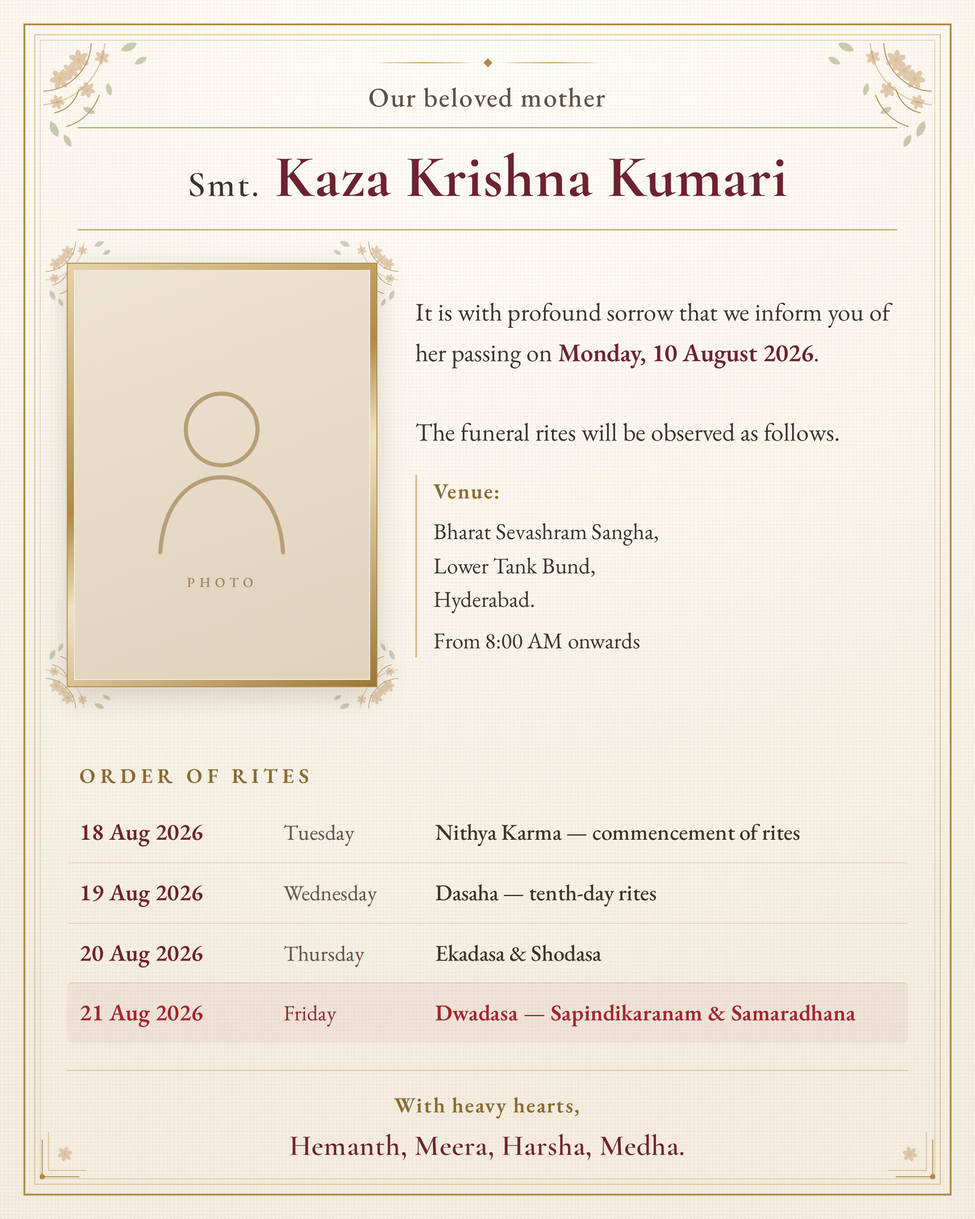
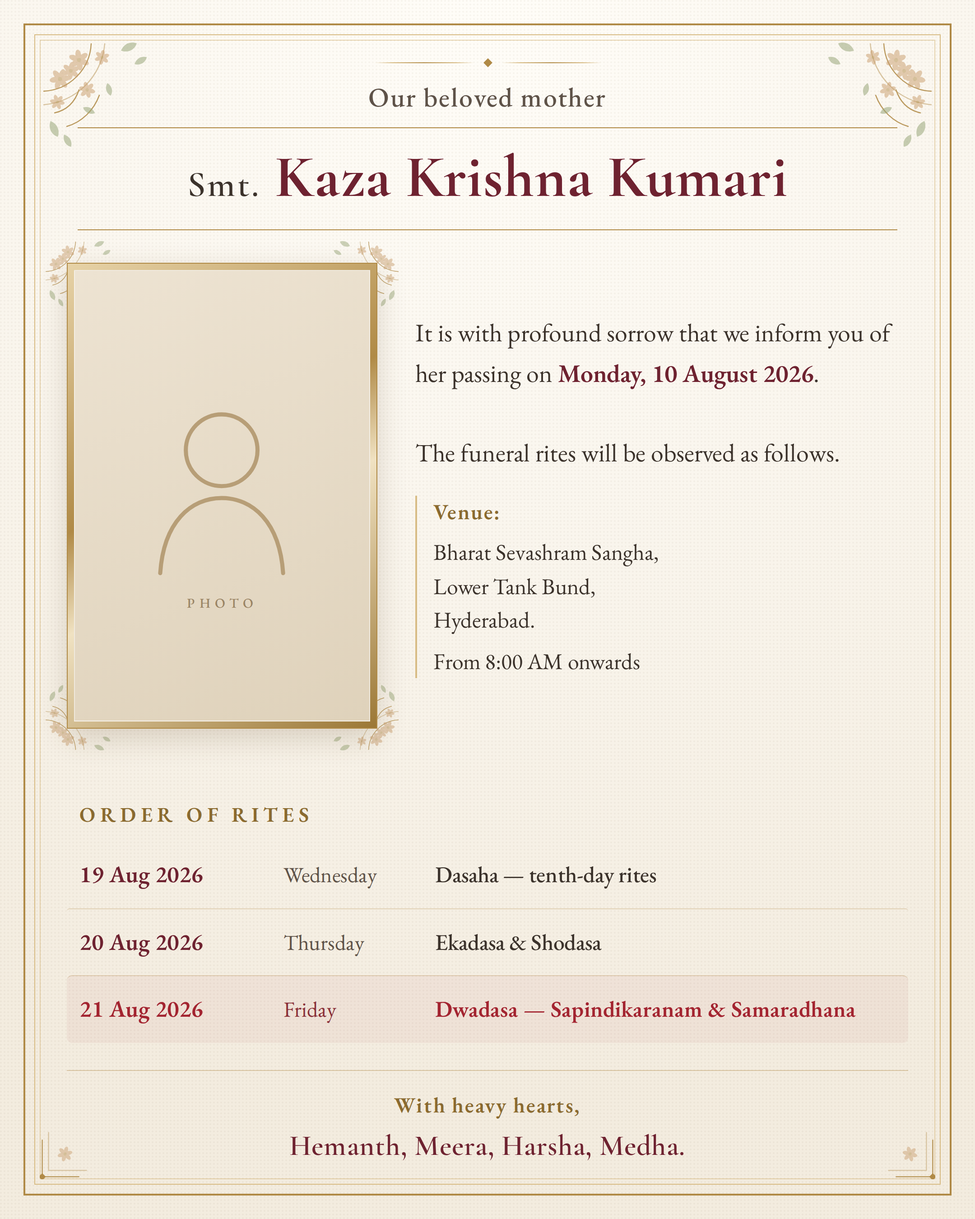
Drop 18 Aug from the rite schedule
The card now lists 19-21 Aug only. Rebalanced the space the removed row
freed: the portrait slot goes to 344x516 (2:3, matching the supplied
photograph's proportions) and the remaining rows get roomier padding, so the
schedule block still sits against the footer rather than leaving a gap.

Claude-Session: https://claude.ai/code/session_01JVpFT1KiiQzTaMTwnEeLwV

diff --git a/designs/memorial-invitation-kaza-krishna-kumari/design.js b/designs/memorial-invitation-kaza-krishna-kumari/design.js
@@ -26,14 +26,12 @@ const CONFIG = {
 };
 
 const SCHEDULE_TE = [
-  { d: '18-08-2026', wd: 'మంగళవారం', r: 'నిత్యకర్మ ప్రారంభం', hi: false },
   { d: '19-08-2026', wd: 'బుధవారం', r: 'దశాహం (ధర్మోదకాలు, తిలోదకాలు)', hi: false },
   { d: '20-08-2026', wd: 'గురువారం', r: 'ఏకాదశ, షోడశం', hi: false },
   { d: '21-08-2026', wd: 'శుక్రవారం', r: 'ద్వాదశ — సపిండీకరణం, సమారాధనలు', hi: true },
 ];
 
 const SCHEDULE_EN = [
-  { d: '18 Aug 2026', wd: 'Tuesday', r: 'Nithya Karma — commencement of rites', hi: false },
   { d: '19 Aug 2026', wd: 'Wednesday', r: 'Dasaha — tenth-day rites', hi: false },
   { d: '20 Aug 2026', wd: 'Thursday', r: 'Ekadasa & Shodasa', hi: false },
   { d: '21 Aug 2026', wd: 'Friday', r: 'Dwadasa — Sapindikaranam & Samaradhana', hi: true },
@@ -203,7 +201,7 @@ ${FONTS}${BASE}${PHOTO_CSS}
   color:var(--gold-dk);text-transform:${te?'none':'uppercase'};margin-bottom:14px;
   text-align:left;padding-left:14px;margin-bottom:18px}
 .row{display:grid;grid-template-columns:${te?'232px 168px 1fr':'214px 156px 1fr'};
-  align-items:baseline;gap:12px;text-align:left;padding:16px 14px;border-radius:3px}
+  align-items:baseline;gap:12px;text-align:left;padding:20px 14px;border-radius:3px}
 .row+.row{border-top:1px solid rgba(176,138,70,.28)}
 .rd{font:${te?`600 27px`:`600 26px`}/1.3 ${FB};color:var(--maroon);letter-spacing:.01em}
 .rw{font:${te?`400 25px`:`400 24px`}/1.3 ${FB};color:var(--ink-soft)}
@@ -233,7 +231,7 @@ ${FONTS}${BASE}${PHOTO_CSS}
       <div class="nm"><small>${te ? c.honorificTe : c.honorificEn}</small> ${te ? c.nameTe : c.nameEn} ${te ? `<small>${c.nameSuffixTe}</small>` : ''}</div>
     </div>
     <div class="mid">
-      ${photoBlock(c, 344, 470)}
+      ${photoBlock(c, 344, 516)}
       <div class="midcol">
         <div class="passed">${te
           ? `<b>${c.passedOnTe}</b> నాడు స్వర్గస్తులైనారని తెలియజేయుటకు ఎంతో చింతిస్తున్నాము.<br><br>వారి ఉత్తరక్రియలు క్రింది విధముగా జరుపబడును.`

diff --git a/designs/memorial-invitation-kaza-krishna-kumari/invitation-telugu.html b/designs/memorial-invitation-kaza-krishna-kumari/invitation-telugu.html
@@ -79,7 +79,7 @@ body{background:#fff}
   color:var(--gold-dk);text-transform:none;margin-bottom:14px;
   text-align:left;padding-left:14px;margin-bottom:18px}
 .row{display:grid;grid-template-columns:232px 168px 1fr;
-  align-items:baseline;gap:12px;text-align:left;padding:16px 14px;border-radius:3px}
+  align-items:baseline;gap:12px;text-align:left;padding:20px 14px;border-radius:3px}
 .row+.row{border-top:1px solid rgba(176,138,70,.28)}
 .rd{font:600 27px/1.3 'NST',serif;color:var(--maroon);letter-spacing:.01em}
 .rw{font:400 25px/1.3 'NST',serif;color:var(--ink-soft)}
@@ -205,7 +205,7 @@ body{background:#fff}
       <div class="nm"><small>శ్రీమతి</small> కాజా కృష్ణ కుమారి <small>గారు</small></div>
     </div>
     <div class="mid">
-      <div class="photo" style="--pw:344px;--ph:470px">
+      <div class="photo" style="--pw:344px;--ph:516px">
     <svg class="corner" width="94" height="94" viewBox="0 0 200 200" fill="none">
   <g stroke="#B08A46" stroke-width="1.6" stroke-linecap="round" fill="none" opacity=".85">
     <path d="M6 76 C 44 74, 74 44, 76 6"/>
@@ -372,11 +372,6 @@ body{background:#fff}
     <div class="schedule">
       <div class="sched-h">ఉత్తరక్రియల వివరములు</div>
       
-    <div class="row">
-      <div class="rd">18-08-2026</div>
-      <div class="rw">మంగళవారం</div>
-      <div class="rr">నిత్యకర్మ ప్రారంభం</div>
-    </div>
     <div class="row">
       <div class="rd">19-08-2026</div>
       <div class="rw">బుధవారం</div>

diff --git a/designs/memorial-invitation-kaza-krishna-kumari/invitation-english.html b/designs/memorial-invitation-kaza-krishna-kumari/invitation-english.html
@@ -79,7 +79,7 @@ body{background:#fff}
   color:var(--gold-dk);text-transform:uppercase;margin-bottom:14px;
   text-align:left;padding-left:14px;margin-bottom:18px}
 .row{display:grid;grid-template-columns:214px 156px 1fr;
-  align-items:baseline;gap:12px;text-align:left;padding:16px 14px;border-radius:3px}
+  align-items:baseline;gap:12px;text-align:left;padding:20px 14px;border-radius:3px}
 .row+.row{border-top:1px solid rgba(176,138,70,.28)}
 .rd{font:600 26px/1.3 'EBG',serif;color:var(--maroon);letter-spacing:.01em}
 .rw{font:400 24px/1.3 'EBG',serif;color:var(--ink-soft)}
@@ -205,7 +205,7 @@ body{background:#fff}
       <div class="nm"><small>Smt.</small> Kaza Krishna Kumari </div>
     </div>
     <div class="mid">
-      <div class="photo" style="--pw:344px;--ph:470px">
+      <div class="photo" style="--pw:344px;--ph:516px">
     <svg class="corner" width="94" height="94" viewBox="0 0 200 200" fill="none">
   <g stroke="#B08A46" stroke-width="1.6" stroke-linecap="round" fill="none" opacity=".85">
     <path d="M6 76 C 44 74, 74 44, 76 6"/>
@@ -372,11 +372,6 @@ body{background:#fff}
     <div class="schedule">
       <div class="sched-h">Order of Rites</div>
       
-    <div class="row">
-      <div class="rd">18 Aug 2026</div>
-      <div class="rw">Tuesday</div>
-      <div class="rr">Nithya Karma — commencement of rites</div>
-    </div>
     <div class="row">
       <div class="rd">19 Aug 2026</div>
       <div class="rw">Wednesday</div>

diff --git a/designs/memorial-invitation-kaza-krishna-kumari/README.md b/designs/memorial-invitation-kaza-krishna-kumari/README.md
@@ -43,8 +43,9 @@ placeholders or inferences and should be checked before sending:
 - **Date of passing** — 10 August 2026 is *derived*, not given: if 19 Aug is
   the 10th day and 21 Aug the 12th, day one falls on 10 Aug 2026 (Monday).
 - **Relationship** — defaults to "our beloved mother" / "మా తల్లి గారైన".
-- **Rite names** — the 18 and 20 Aug labels follow the conventional sequence;
-  only the 10th day (19 Aug) and 12th day (21 Aug) were specified.
+- **Rite names** — the 20 Aug label follows the conventional sequence; only
+  the 10th day (19 Aug) and 12th day (21 Aug) were specified. The card lists
+  19-21 Aug; 18 Aug was dropped at the family's request.
 
 ## Fonts
 
